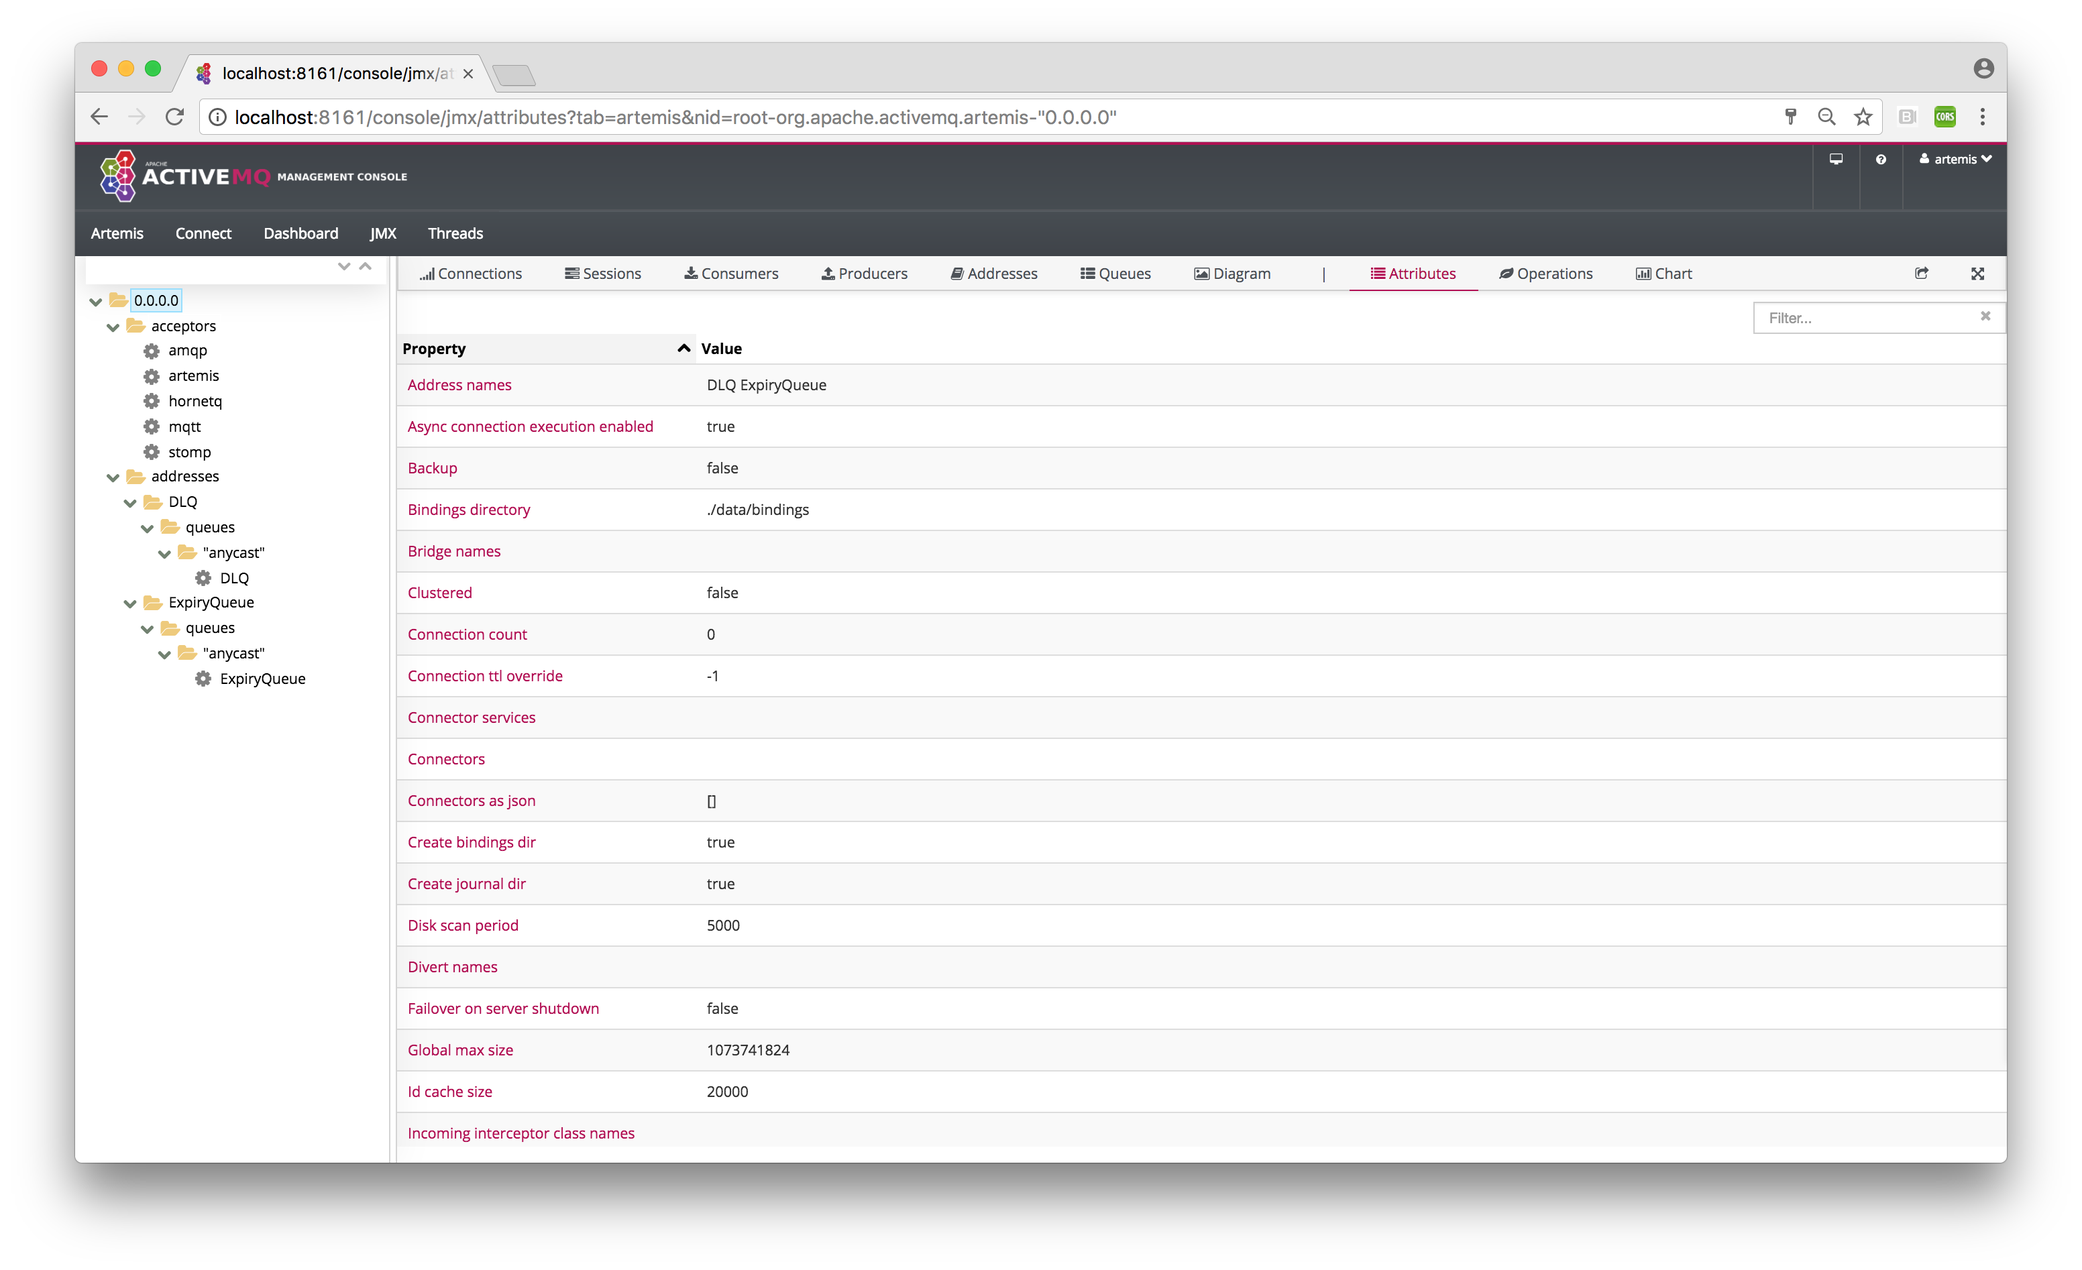
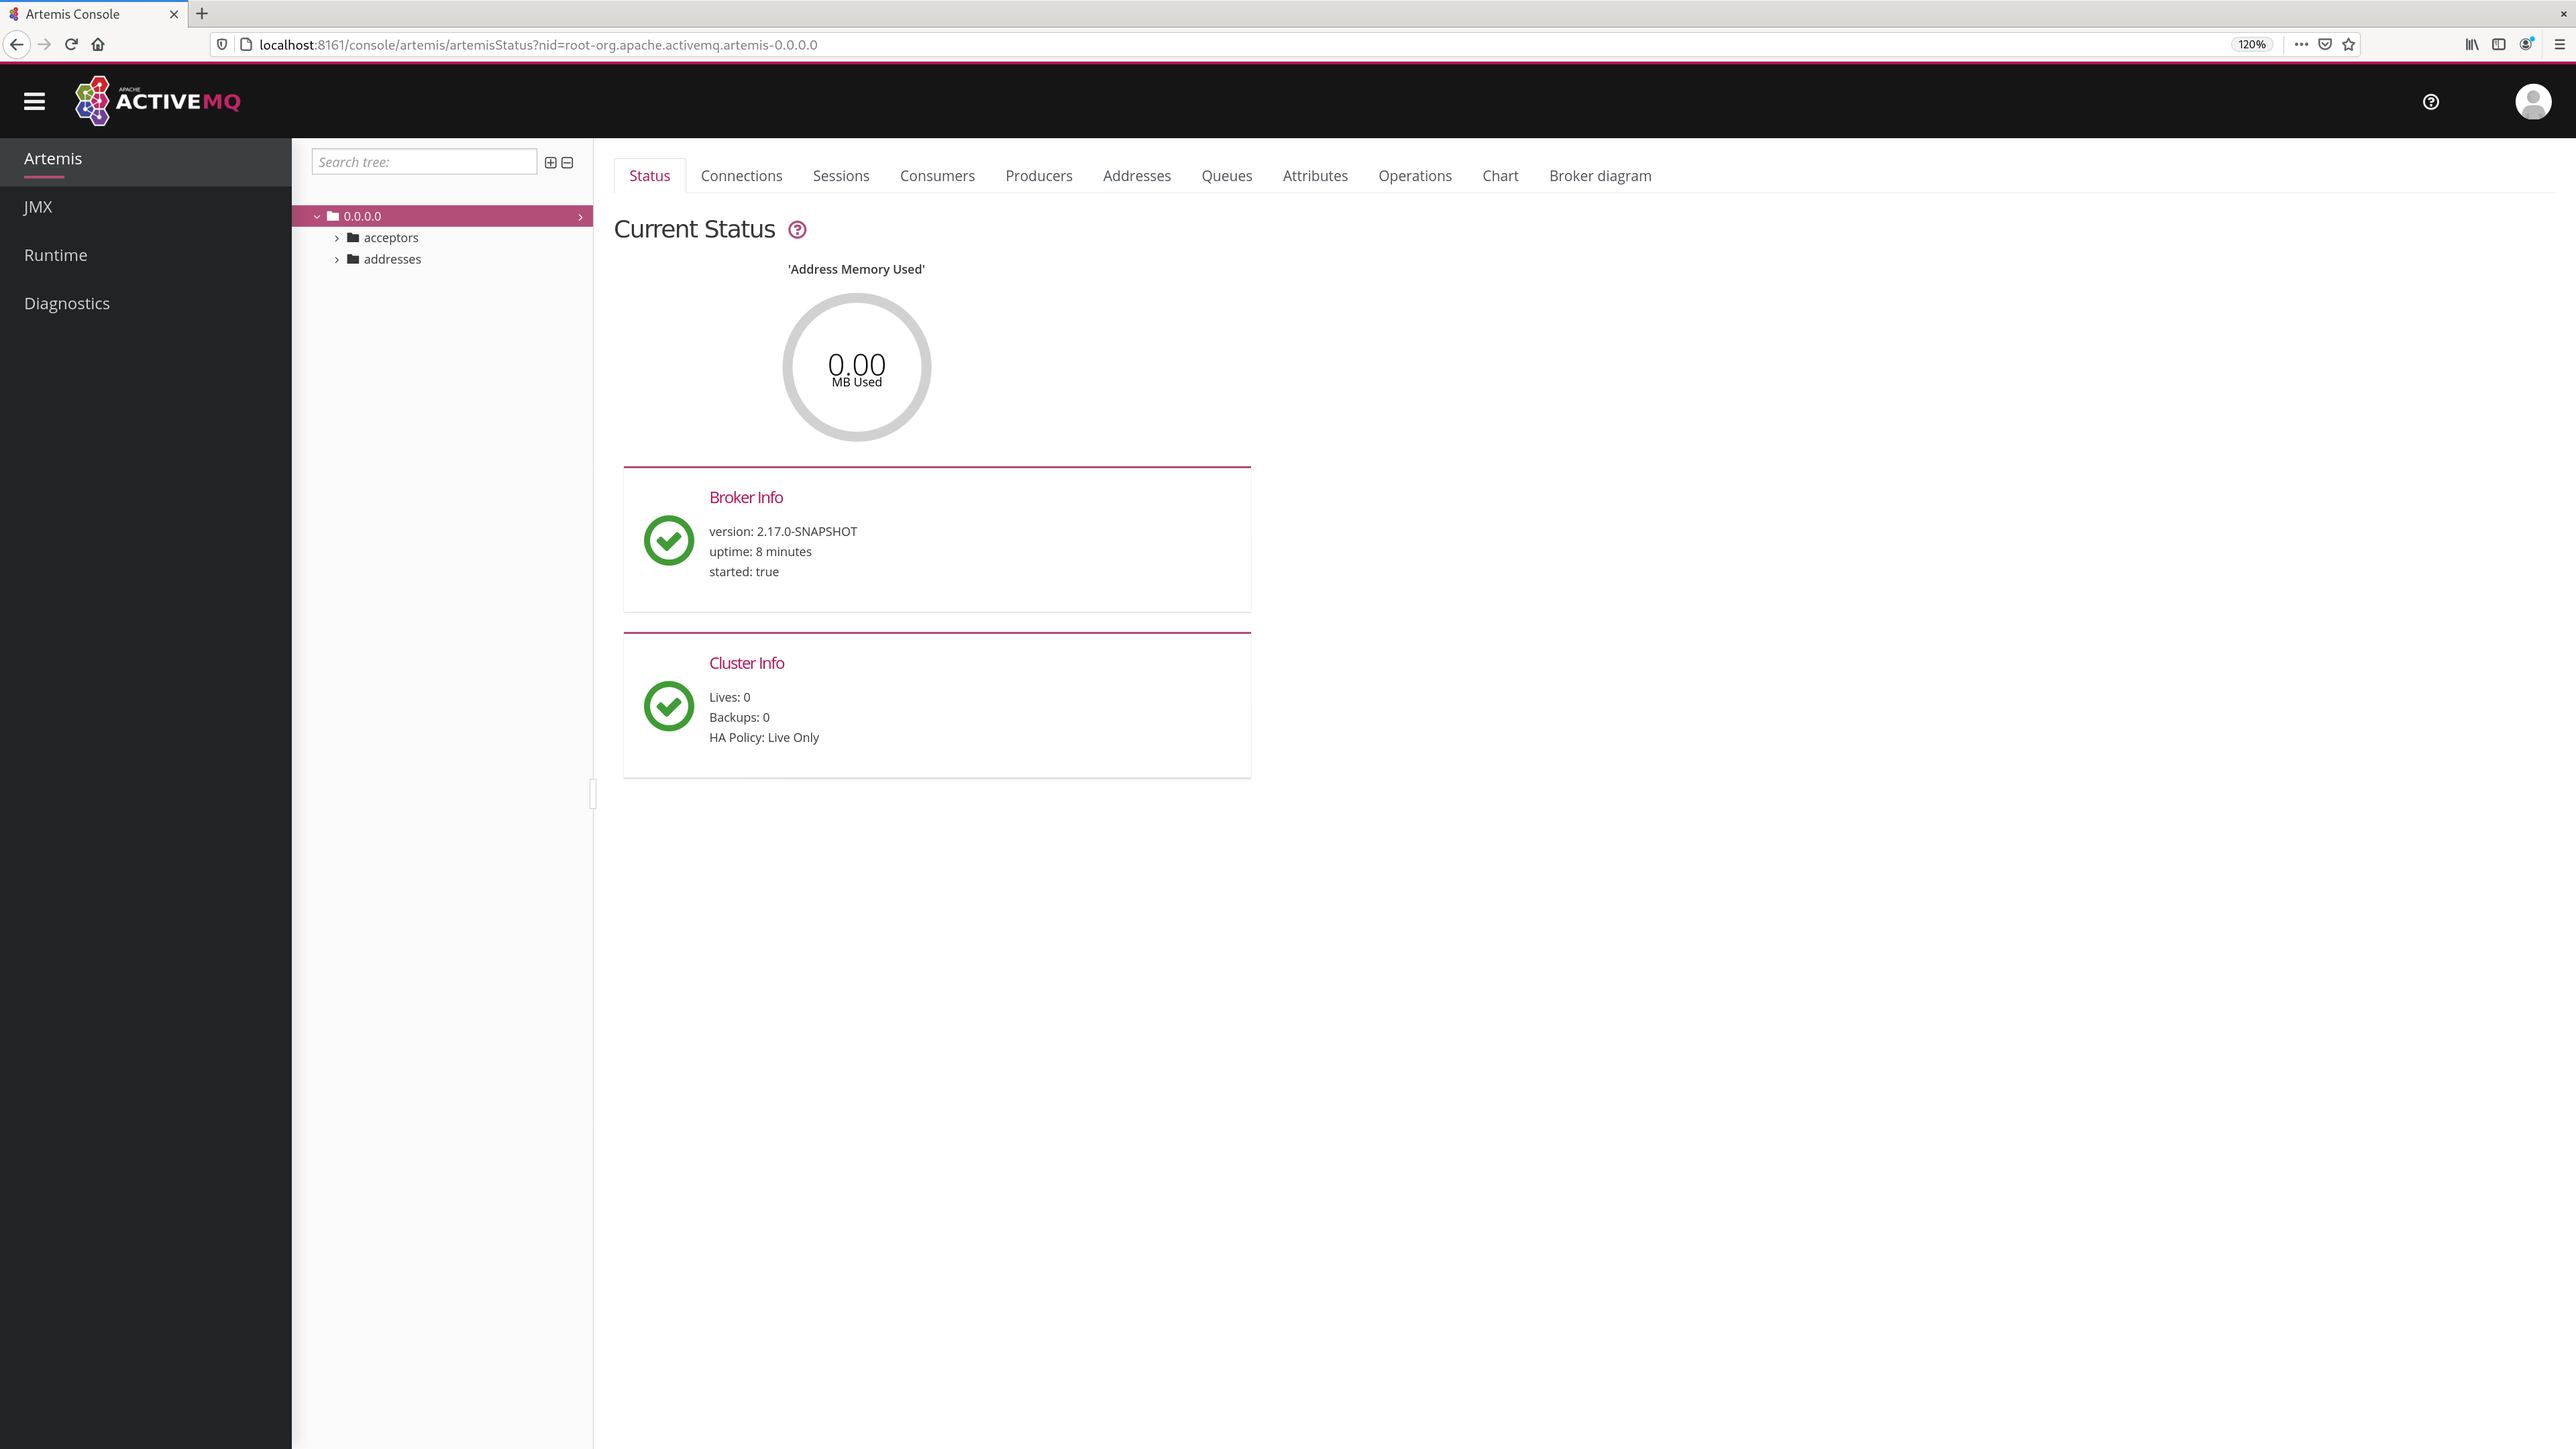
NO-JIRA updating the console docs
(cherry picked from commit 6b6d993a1d7d2d0977b157e11b37e350d7385c4c)

diff --git a/docs/user-manual/en/management-console.md b/docs/user-manual/en/management-console.md
@@ -29,10 +29,12 @@ Once logged in you should be presented with a screen similar to.
 
 On the top right is small menu area you will see some icons.
 
-- `question mark` This will load the artemis documentation in the console main window
+- `question mark` This will open a menu with the following items
+    - `Help` This will navigate to the console user guide
+    - `About` this will load an about screen, here you will be able to see and validate versions
 - `person` will provide a drop down menu with
-- `about` this will load an about screen, here you will be able to see and validate versions
-- `log out` self descriptive.
+    - `Preferences` this will open the preferences page
+    - `Log out` self descriptive.
 
 #### Navigation Tabs
 
@@ -52,7 +54,7 @@ You can install further hawtio plugins if you wish to have further functionality
 
 ## Artemis Tab
 
-Click `Artemis` in the top navigation bar to see the Artemis specific plugin. (The Artemis tab won't appear if there is no broker in this JVM).  The Artemis plugin works very much the same as the JMX plugin however with a focus on interacting with an Artemis broker.
+Click `Artemis` in the left navigation bar to see the Artemis specific plugin. (The Artemis tab won't appear if there is no broker in this JVM).  The Artemis plugin works very much the same as the JMX plugin however with a focus on interacting with an Artemis broker.
 
 ### Tree View
 
